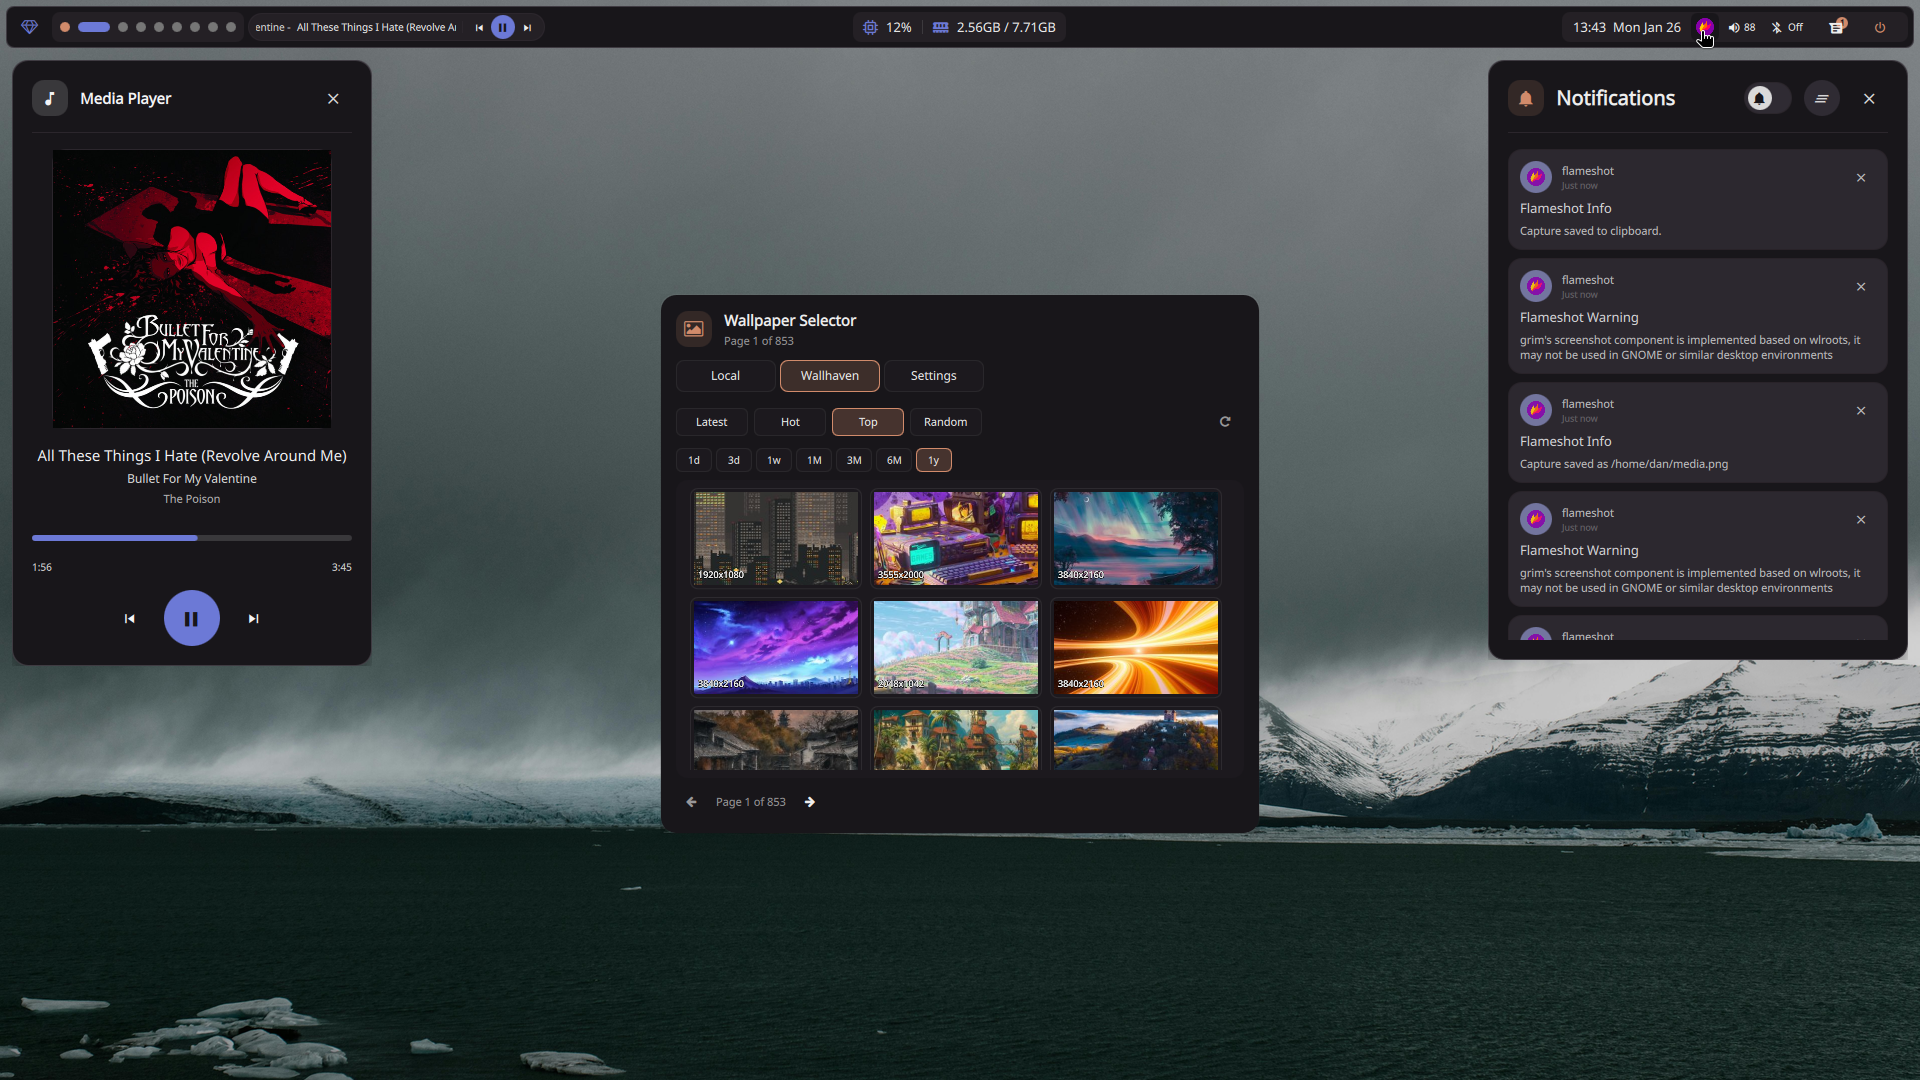
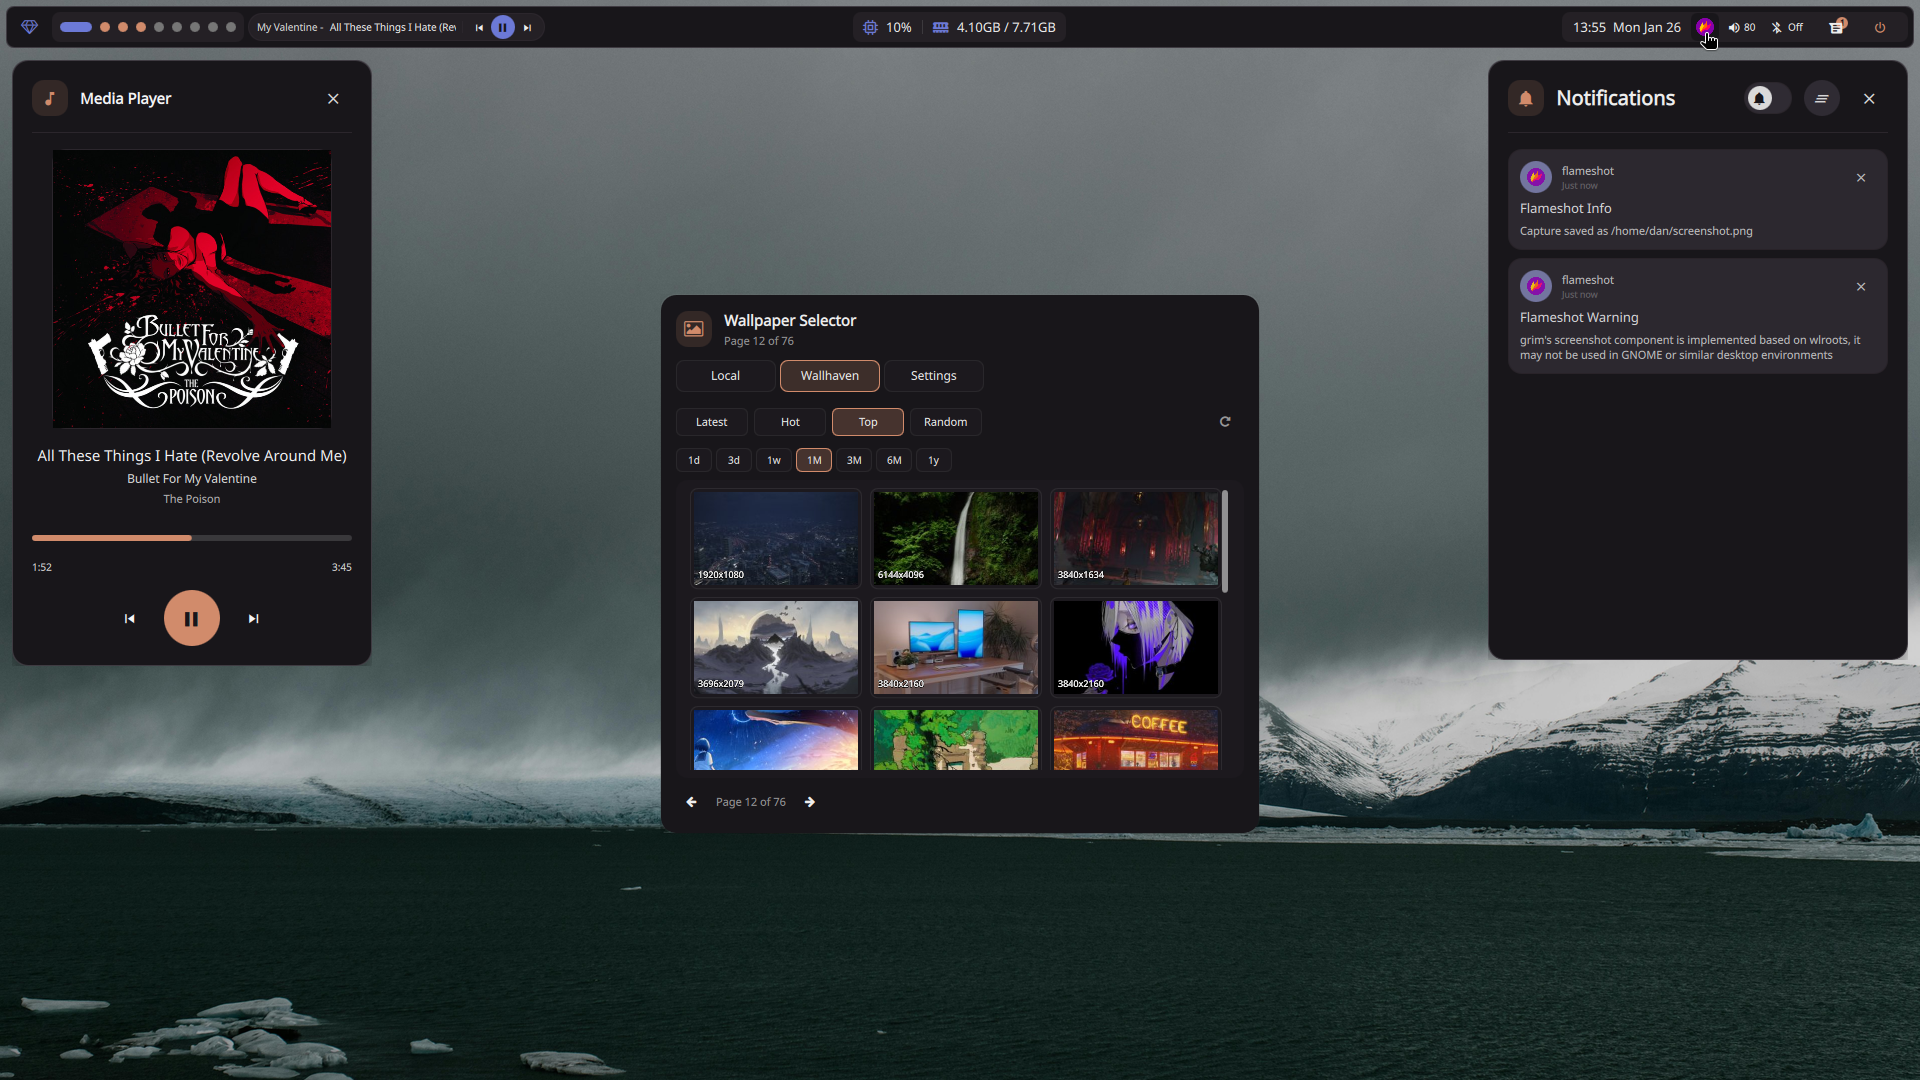
updated colors

diff --git a/Modules/volume/VolumePopup.qml b/Modules/volume/VolumePopup.qml
@@ -101,7 +101,7 @@ Widgets.PopupWindow {
                         text: "Output"
                         font.family: Commons.Theme.fontUI
                         font.pixelSize: 12
-                        color: outputMuteArea.containsMouse ? Commons.Theme.primary : Commons.Theme.foreground
+                        color: outputMuteArea.containsMouse ? Commons.Theme.secondary : Commons.Theme.foreground
                         
                         Behavior on color {
                             ColorAnimation { duration: 100 }
@@ -133,9 +133,9 @@ Widgets.PopupWindow {
                 to: 100
                 value: audio.percentage
                 trackColor: Qt.rgba(Commons.Theme.foreground.r, Commons.Theme.foreground.g, Commons.Theme.foreground.b, 0.15)
-                progressColor: Commons.Theme.primary
+                progressColor: Commons.Theme.secondary
                 handleColor: Commons.Theme.foreground
-                handleBorderColor: Commons.Theme.primary
+                handleBorderColor: Commons.Theme.secondary
                 
                 onMoved: {
                     audio.setVolume(value / 100)
@@ -167,7 +167,7 @@ Widgets.PopupWindow {
                         text: "Input"
                         font.family: Commons.Theme.fontUI
                         font.pixelSize: 12
-                        color: inputMuteArea.containsMouse ? Commons.Theme.primary : Commons.Theme.foreground
+                        color: inputMuteArea.containsMouse ? Commons.Theme.secondary : Commons.Theme.foreground
                         
                         Behavior on color {
                             ColorAnimation { duration: 100 }
@@ -199,9 +199,9 @@ Widgets.PopupWindow {
                 to: 100
                 value: audio.sourcePercentage
                 trackColor: Qt.rgba(Commons.Theme.foreground.r, Commons.Theme.foreground.g, Commons.Theme.foreground.b, 0.15)
-                progressColor: Commons.Theme.primary
+                progressColor: Commons.Theme.secondary
                 handleColor: Commons.Theme.foreground
-                handleBorderColor: Commons.Theme.primary
+                handleBorderColor: Commons.Theme.secondary
                 
                 onMoved: {
                     audio.setSourceVolume(value / 100)

diff --git a/Modules/mediaplayer/MediaPlayerPopup.qml b/Modules/mediaplayer/MediaPlayerPopup.qml
@@ -88,7 +88,7 @@ Widgets.PopupWindow {
                 Widgets.HeaderWithIcon {
                     icon: ""
                     title: "Media Player"
-                    iconColor: surfaceText
+                    iconColor: Commons.Theme.secondary
                     titleColor: surfaceText
                 }
                 
@@ -206,9 +206,9 @@ Widgets.PopupWindow {
                     to: popupWindow.playerLength > 0 ? popupWindow.playerLength : 1
                     enabled: player && player.canSeek && player.positionSupported
                     trackColor: Qt.rgba(surfaceText.r, surfaceText.g, surfaceText.b, 0.15)
-                    progressColor: Commons.Theme.primary
+                    progressColor: Commons.Theme.secondary
                     handleColor: surfaceText
-                    handleBorderColor: Commons.Theme.primary
+                    handleBorderColor: Commons.Theme.secondary
                     
                     property bool userInteracting: false
                     
@@ -282,7 +282,7 @@ Widgets.PopupWindow {
                     icon: (player?.isPlaying ?? false) ? "" : ""
                     iconSize: 24
                     iconColor: Commons.Theme.background
-                    baseColor: Commons.Theme.primary
+                    baseColor: Commons.Theme.secondary
                     hoverColor: Commons.Theme.secondary
                     onClicked: {
                         if (player) player.togglePlaying()

diff --git a/Widgets/MediaControlButton.qml b/Widgets/MediaControlButton.qml
@@ -8,7 +8,7 @@ Rectangle {
     property int iconSize: 18
     property color iconColor: Commons.Theme.foreground
     property color baseColor: "transparent"
-    property color hoverColor: Qt.rgba(Commons.Theme.primary.r, Commons.Theme.primary.g, Commons.Theme.primary.b, 0.15)
+    property color hoverColor: Qt.rgba(Commons.Theme.secondary.r, Commons.Theme.secondary.g, Commons.Theme.secondary.b, 0.15)
     property bool scaleOnInteraction: true
     property real hoverScale: 1.05
     property real pressedScale: 0.85
